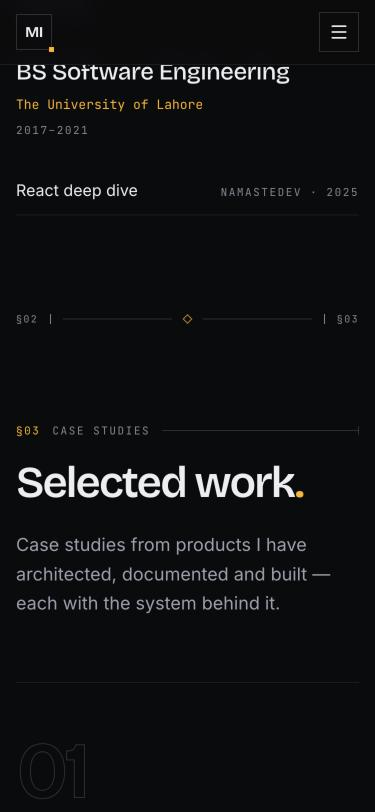
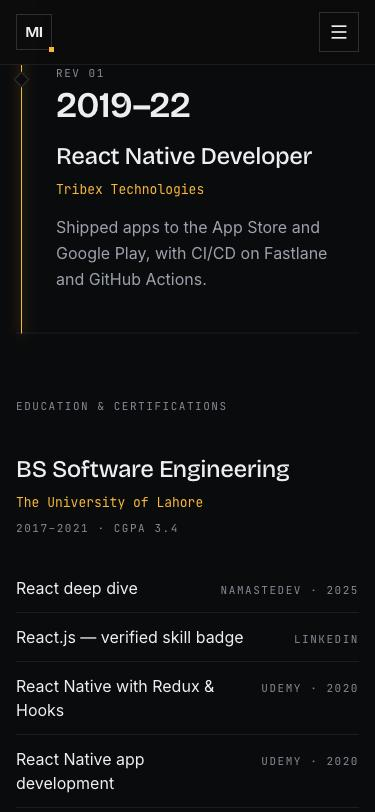
Restore CGPA and certifications with clearer titles
Bring back the CGPA, the LinkedIn React badge and both Udemy courses,
renamed from beginner-sounding titles; label the block Education &
certifications.

diff --git a/src/components/sections/experience/Experience.tsx b/src/components/sections/experience/Experience.tsx
@@ -94,14 +94,14 @@ export function Experience() {
 
         {/* Education and certifications, as the drawing's title-block notes */}
         <Reveal className="mt-16 grid gap-10 md:mt-20 md:grid-cols-[180px_minmax(0,1fr)_minmax(0,1.1fr)] md:gap-10 md:pl-14">
-          <p className="label-mono text-faint">Education</p>
+          <p className="label-mono text-faint">Education &amp; certifications</p>
           <div>
             <h3 className="font-display text-2xl leading-tight font-medium tracking-[-0.02em]">
               {experience.education.degree}
             </h3>
             <p className="mt-2 font-mono text-[13px] text-accent">{experience.education.school}</p>
             <p className="mt-2 label-mono text-faint">
-              {experience.education.years}
+              {experience.education.years} · {experience.education.note}
             </p>
           </div>
           <ul className="space-y-3">

diff --git a/src/content/site.ts b/src/content/site.ts
@@ -1345,6 +1345,12 @@ export const experience = {
     degree: 'BS Software Engineering',
     school: 'The University of Lahore',
     years: '2017–2021',
+    note: 'CGPA 3.4',
   },
-  certifications: [{ name: 'React deep dive', issuer: 'NamasteDev', year: '2025' }],
+  certifications: [
+    { name: 'React deep dive', issuer: 'NamasteDev', year: '2025' },
+    { name: 'React.js — verified skill badge', issuer: 'LinkedIn' },
+    { name: 'React Native with Redux & Hooks', issuer: 'Udemy', year: '2020' },
+    { name: 'React Native app development', issuer: 'Udemy', year: '2020' },
+  ],
 }
